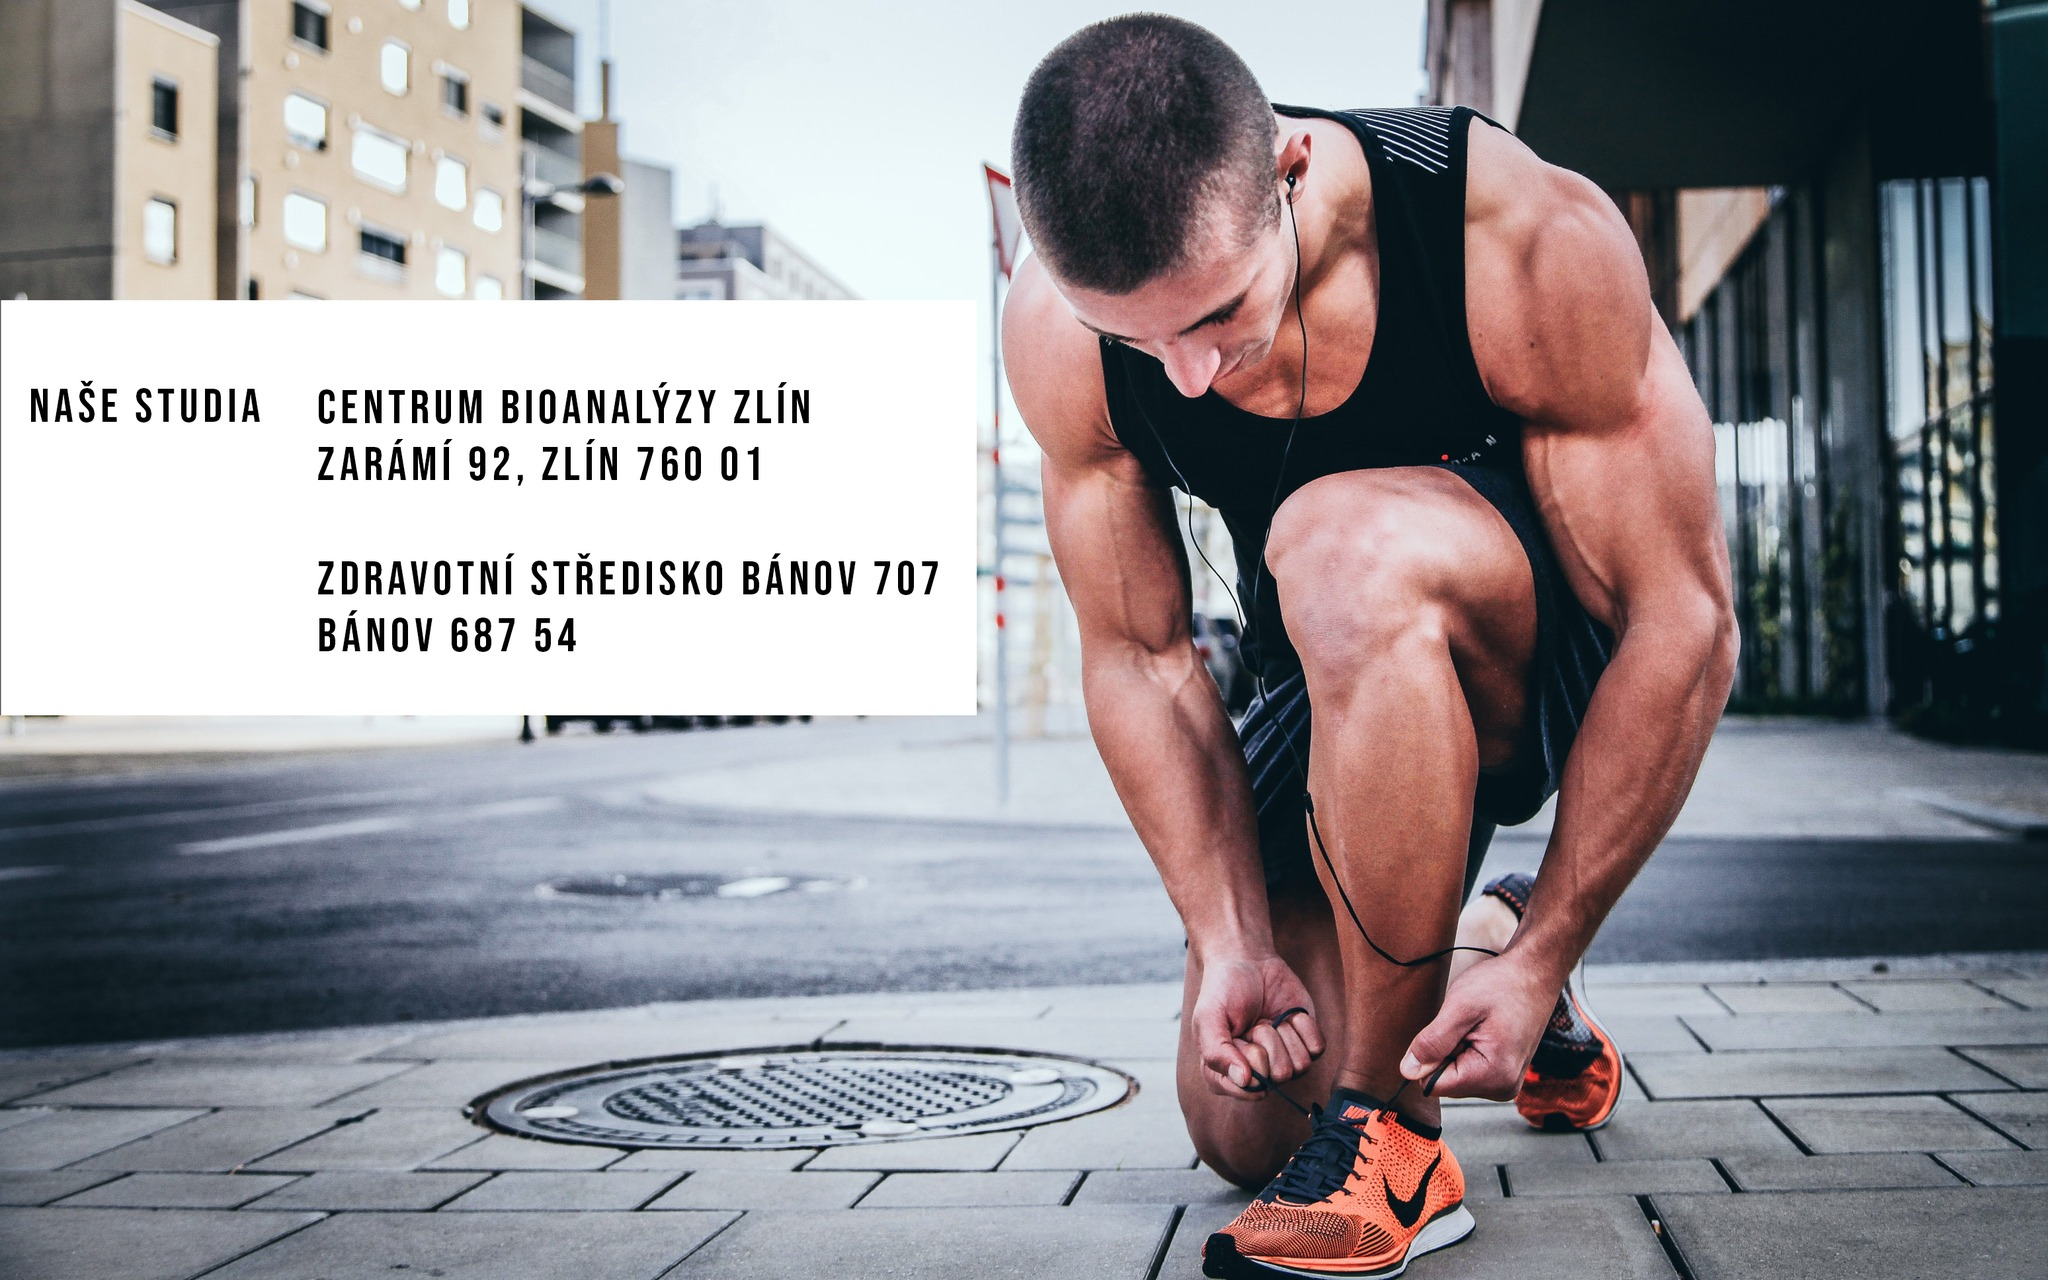
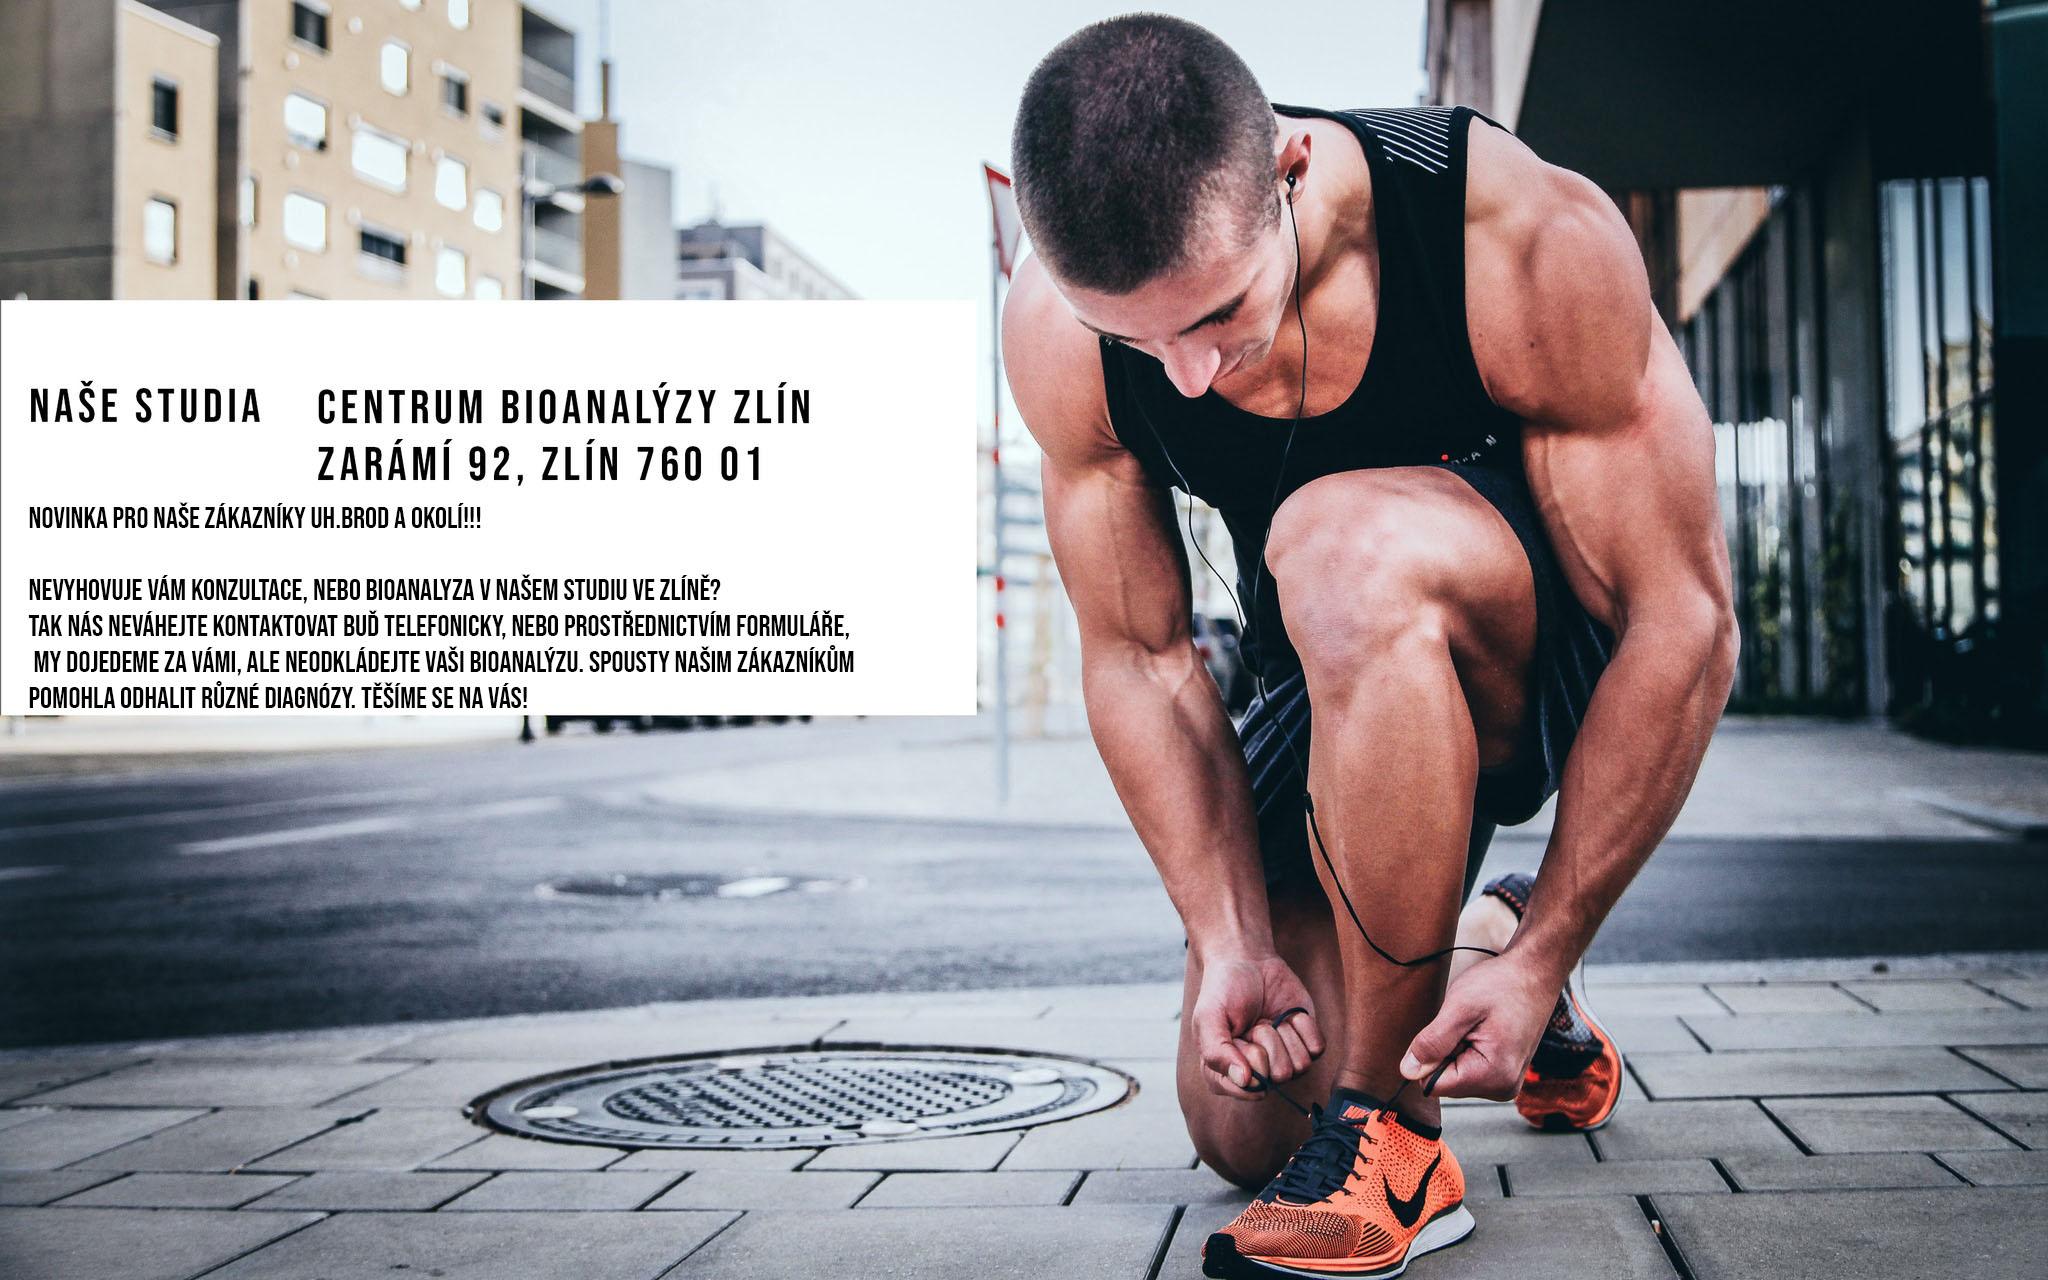
Add files via upload

Changed region(s): [[0.0, 0.375, 0.4688, 0.5625]]

diff --git a/index.html b/index.html
@@ -29,6 +29,10 @@
         </div>
     </div>
     <div id="uvod" class="hero-image">
+        <div class="hero-text">
+            <div class="hero-left">Naše studia</div>
+            <div class="hero-right">Centrum Bioanalýzy Zlín<br>Zarámí 92, Zlín 760 01<br><br>Nově přijedeme i k vám domů!</div>
+        </div>
     </div>
 <section id="work">
     <h1>S čím Vám můžeme pomoci</h1>
@@ -147,17 +151,17 @@ Pak už ho mějte jen pod kontrolou.
         <div class="zemni-prace">
             <svg xmlns="http://www.w3.org/2000/svg" height="108" viewBox="0 96 960 960" stroke="white" fill="white" preserveAspectRatio="xMidYMid meet" width="108"><path d="M411 718Zm332 3q-11.613-3.714-17.806-14.857Q719 695 722.636 684.219 727 672 738 666q11-6 23-2l138 47q11.871 3.823 17.435 14.912Q922 737 918 749q-4 12-15 17.5t-22 1.5l-138-47Zm7-115q-12 0-21-9t-9-21.5q0-12.5 9-21t21-8.5h140q12.75 0 21.375 8.625T920 576q0 12-8.625 21T890 606H750Zm13-119q-12 4-23.571-1.367Q727.857 480.267 724 468q-4-12 1.806-23.088Q731.613 433.824 744 430l137-46q11-4 22.088 1.806Q914.176 391.613 918 404q4 11-1.367 22.143Q911.267 437.286 899 441l-136 46ZM285 656q-52 0-88.5-36.5T160 531q0-26 10-48.5t27-39.5l83-84V176h60v183q0 12.174-4.5 23.587T323 402l-84 83q-8.769 8.939-13.885 20.857Q220 517.776 220 531.184 220 558 239.421 577q19.421 19 45.316 19 17.263 0 27.763-6t23.5-17q14-11 32.5-21t41.5-10q17 0 35.5 7t39.5 24q13 11 22.956 17 9.955 6 27.022 6Q562 596 581 577t19-46.333q0-13.667-4.846-25.863Q590.308 492.609 582 484l-84-83q-8-8-13-19.5t-5-23.5V176h60v182l84 84q17 17 26.5 40t9.5 49q0 52-36 88.5T535 656q-33 0-53.5-12.5T447 619q-15-12-23.5-14.5T410 602q-9 0-18.5 6T374 619q-15 12-35 24.5T285 656Zm195 320V802q0-12.174 5-23.587T498 759l84-83q8.308-8.634 13.154-20.146Q600 644.341 600 631.39q0-14.39-4.846-26.39T582 584l42-42q17 17 26.5 40t9.5 49q0 26-9.5 48T624 718l-84 84v174h-60Zm-200 0V802l-83-84q-17-17-27-39t-10-48q0-26 10-49t27-40l42 42q-9 10-14 21.429-5 11.428-5 25.714 0 12.857 5.5 24.357T239 676l84 83q8 8 12.5 19.413T340 802v174h-60Zm130-575Z"/></svg>
             <div class="card-header">Zdravotní problémy</div>
-            <h2>Lorem ipsum (zkráceně lipsum) je označení pro standardní pseudolatinský text užívaný v grafickém designu a navrhování jako demonstrativní výplňový text.</h2>
+            <h2>Připravujeme...</h2>
         </div>
         <div class="pujcovna">
               <svg xmlns="http://www.w3.org/2000/svg" height="108" viewBox="0 96 960 960" width="108" stroke="white" fill="white" preserveAspectRatio="xMidYMid meet"><path d="M480 936q-117 0-198.5-81.5T200 656q0-100 61.5-176.5T420 382q-26-5-50-14.5T327 339q-28-29-37.5-67t-9.5-78v-18q86-2 148 56.5T489 376q14-43 39.5-80t57.5-69q9-9 21-9t21 9q9 9 9 21t-9 21q-25 25-45 54t-34 61q94 24 152.5 99.5T760 656q0 117-81.5 198.5T480 936Zm0-60q92 0 156-64t64-156q0-92-64-156t-156-64q-92 0-156 64t-64 156q0 92 64 156t156 64Zm0-220Z"/></svg>
             <div class="card-header">Doplňky stravy</div>
-            <h2>Lorem ipsum (zkráceně lipsum) je označení pro standardní pseudolatinský text užívaný v grafickém designu a navrhování jako demonstrativní výplňový text.</h2>
+            <h2>Připravujeme...</h2>
         </div>
         <div class="doprava">
             <svg xmlns="http://www.w3.org/2000/svg" height="108" viewBox="0 96 960 960" width="108" stroke="white" fill="white" preserveAspectRatio="xMidYMid meet"><path d="M261 896q-26 0-43-17t-17-43q0-18 9-34.5t26-23.5l172-68V572q-66 81-134 122t-154 41v-60q68 0 124-31.5T345 555l58-65q10-12 23.5-20t29.5-8h48q16 0 30 8t24 20l58 65q48 55 102 87.5T840 675v60q-85 0-153.5-41T552 572v138l172 68q17 7 26 23.5t9 34.5q0 26-17 43t-43 17H396v-11q0-26 16-42t42-16h133q8 0 14-6t6-14q0-8-6-14t-14-6H454q-44 0-70 27t-26 71v11h-97Zm219-494q-30 0-51.5-21.5T407 329q0-30 21.5-51.5T480 256q30 0 51.5 21.5T553 329q0 30-21.5 51.5T480 402Z"/></svg>
             <div class="card-header">Zdravý životní styl</div>
-            <h2>Lorem ipsum (zkráceně lipsum) je označení pro standardní pseudolatinský text užívaný v grafickém designu a navrhování jako demonstrativní výplňový text.</h2>
+            <h2>Připravujeme...</h2>
         </div>
     </div>
 </section>
@@ -264,7 +268,7 @@ Pak už ho mějte jen pod kontrolou.
             <p style="font-size: 1.75rem; color: rgb(0, 0, 0);font-weight: 700;">Novinka pro naše zákazníky. Napište nám, zda chcete konzultaci ve Zlíně ve studiu, nebo okolí Uh.Brod, nebo konzultace osobní u zákazníka doma..</p>
         </div>
     </div>
-</section>;
+</section>
 <section id="footer">
     <div class="logo-container">
         <div class="navbar-logo"><a href="#uvod"><img src="./img/bioanalyza_zdravi_logo-removebg-preview.png" alt="Bioanalýza Zdraví logo"></a></div>

diff --git a/styles.css b/styles.css
@@ -60,11 +60,9 @@ table {
 
 .navbar{
     display: flex;
-    width: 100vw;
     background-color: #fff;
     gap: 2rem;
     font-size: 2rem;
-    position: fixed;
     top: 0;
     transition: top 0.5s;
     transition: background-color 0.5s;
@@ -81,6 +79,8 @@ table {
     z-index: 999;
 }
 .navbar-item{
+    display: flex;
+    align-self: center;
     text-align: center;
     padding-top: 4rem;
     padding-bottom: 4rem;
@@ -138,10 +138,25 @@ table {
     background-color: var(--secondary-color);
 }
 .hero-image{
-    background-image: url("./img/bioanalyza\ hero.jpg");
+    display: flex;
+    align-items: center;
+    background-image: url("./img/alexander-redl-d3bYmnZ0ank-unsplash.jpg");
     background-size: cover;
     background-position: center;
     height: 90vh;
+}
+.hero-text{
+    display: flex;
+    line-height: 1.5;
+    font-weight: 700;
+    font-size: 2.5rem;
+    gap: 2rem;
+    background-color: rgba(255, 255, 255, 0.884);
+    border-radius: 5px;
+    margin-left: 2rem;
+    width: fit-content;
+    height: fit-content;
+    padding: 1rem;
 }
 .navbar-logo{
     display: flex;
@@ -492,7 +507,7 @@ h2{
 .numbers{
     display: flex;
     text-align: center;
-    gap: 17rem;
+    gap: calc(100vw / 20);
     margin-top: 4.8rem;
 }
 .num{
@@ -581,10 +596,9 @@ h2{
 }
 #footer{
     display: flex;
-    width: 100%;
     background: var(--main-color);
+    padding-right: 1rem;
     height: 15rem;
-    
 }
 #footer .navbar-logo{
     color: #fff;
@@ -724,10 +738,18 @@ textarea {
         padding: 1rem;
     }
     .hero-image{
-        background-position: 10% center;
+        background-position: 50%;
     }
-    .navbar{
+    .navbar-menu{
         display: none;
+    }
+    .socials svg{
+        display: flex;
+        width: 7rem;
+    }
+    
+    .navbar-logo img{
+        width: 30rem;
     }
     .two-part-section{
         flex-direction: column;
@@ -809,6 +831,9 @@ textarea {
     form{
         width: 70%;
     }
+    .contact-text p{
+        width: 43vw;
+    } 
   }
   
   /* Small devices (landscape phones, small tablets) */
@@ -820,10 +845,17 @@ textarea {
         padding: 1rem;
     }
     .hero-image{
-        background-position: 7% center;
+        background-position: 50%;
     }
-    .navbar{
+    .navbar-menu{
         display: none;
+    }
+    .socials svg{
+        display: flex;
+        width: 6rem;
+    }
+    .navbar-logo img{
+        width: 25rem;
     }
     .two-part-section{
         flex-direction: column;
@@ -917,7 +949,17 @@ textarea {
       font-size: 55.73%; /* (62.5 / 1920) * 992 */
     }
     .hero-image{
-        background-position: 4% center;
+        background-position: 50%;
+    }
+    .navbar-menu{
+        display: none;
+    }
+    .socials svg{
+        display: flex;
+        width: 6rem;
+    }
+    .navbar-logo img{
+        width: 25rem;
     }
     .two-part-section{
         flex-direction: column;
@@ -943,6 +985,19 @@ textarea {
     .contact-section{
         width: auto;
   }
+  .contact-wrapper{
+    flex-direction: column-reverse;
+}
+  .contact-form-wrapper {
+    flex-direction: column-reverse;
+}
+#contact-form .contact-text{
+    border-radius: 20px 20px 0px 0px;
+}
+.contact-text p{
+    width: auto;
+}
+}
   
   /* Large devices (desktops) */
   @media (min-width: 992px) and (max-width: 1200px) {
@@ -950,7 +1005,7 @@ textarea {
       font-size: 62.5%; /* (62.5 / 1920) * 1200 */
     }
     .hero-image{
-        background-position: -5% center;
+        background-position: 50%;
     }
     .two-part-section{
         flex-direction: column;
@@ -970,18 +1025,39 @@ textarea {
         width: auto;
         padding: 1rem;
     }
-}}
+    .contact-text p{
+        width: auto;
+    }
+    .contact-form-hero{
+        display: flex;
+        align-items: center;
+    }
+}
 
   @media (min-width: 1200px) and (max-width: 1420px){
     :root {
         font-size: 72.66%; /* (62.5 / 1920) * 1920 */
       }
       .hero-image{
-        background-position: 0% center;
+        background-position: 50%;
+    }
+    .wrapper{
+        flex-direction: column;
+        align-items: center;
+    }
+    .column{
+        width: 85%;
     }
     .two-part-section{
         flex-direction: column;
         gap: 10rem;
+    }
+    .contact-text p{
+        width: auto;
+    }
+    .contact-form-hero{
+        display: flex;
+        align-items: center;
     }
   }
   /* Extra large devices (large desktops, ultra-wide monitors) */

diff --git a/app.js b/app.js
@@ -1,3 +1,6 @@
+
+/* maybe later 
+
 var menu = document.querySelector(".navbar");
 var menuPosition = menu.offsetTop;
 
@@ -9,3 +12,4 @@ window.onscroll = function() {
     }
   };
 
+*/

diff --git a/submit.php b/submit.php
@@ -1,0 +1,23 @@
+<?php
+
+if(isset($_POST['submit'])) {
+
+    // Get the form data
+    $name = $_POST['uzivatel'];
+    $email = $_POST['email'];
+    $message = $_POST['zprava'];
+
+    // Create the email message
+    $to = "produkceforthsite@email.cz";
+    $subject = "Nová objednávka (test webu bioanalyza)";
+    $body = "Name: $name\nEmail: $email\n\n$message";
+
+    // Send the email
+    if(mail($to, $subject, $body)) {
+        echo "Thank you for your message!";
+    } else {
+        echo "There was a problem sending your message. Please try again.";
+    }
+
+}
+?>
